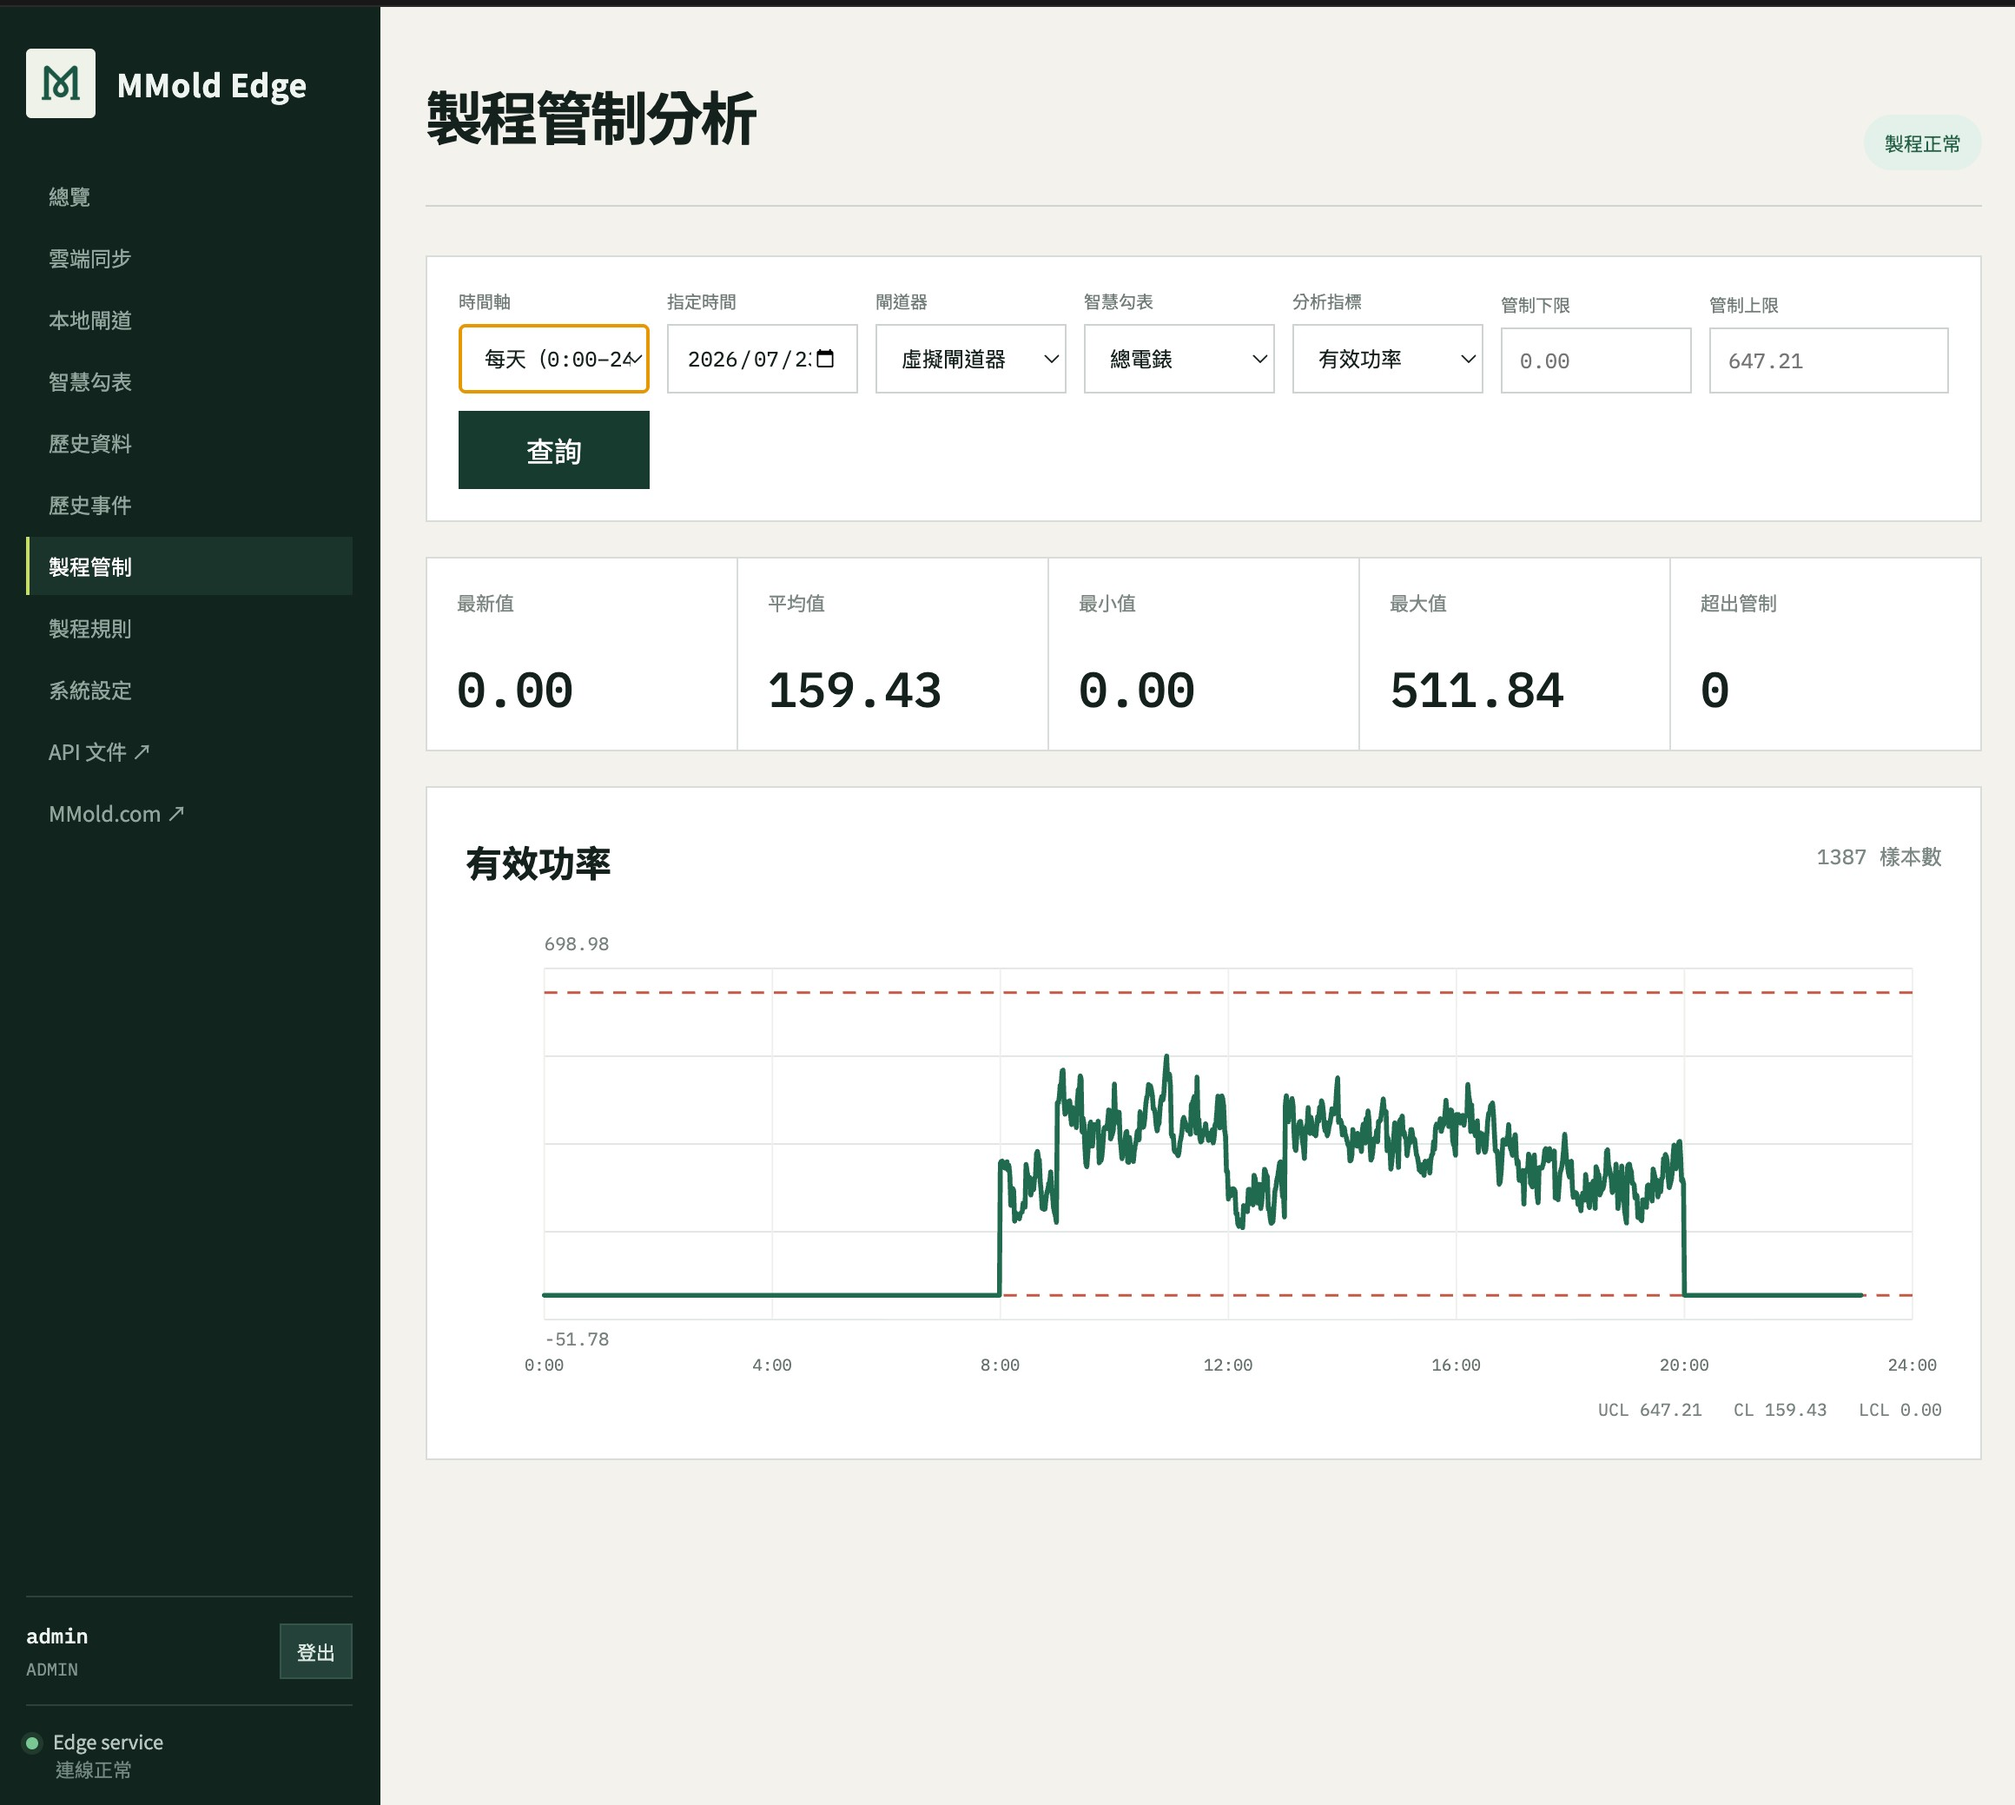
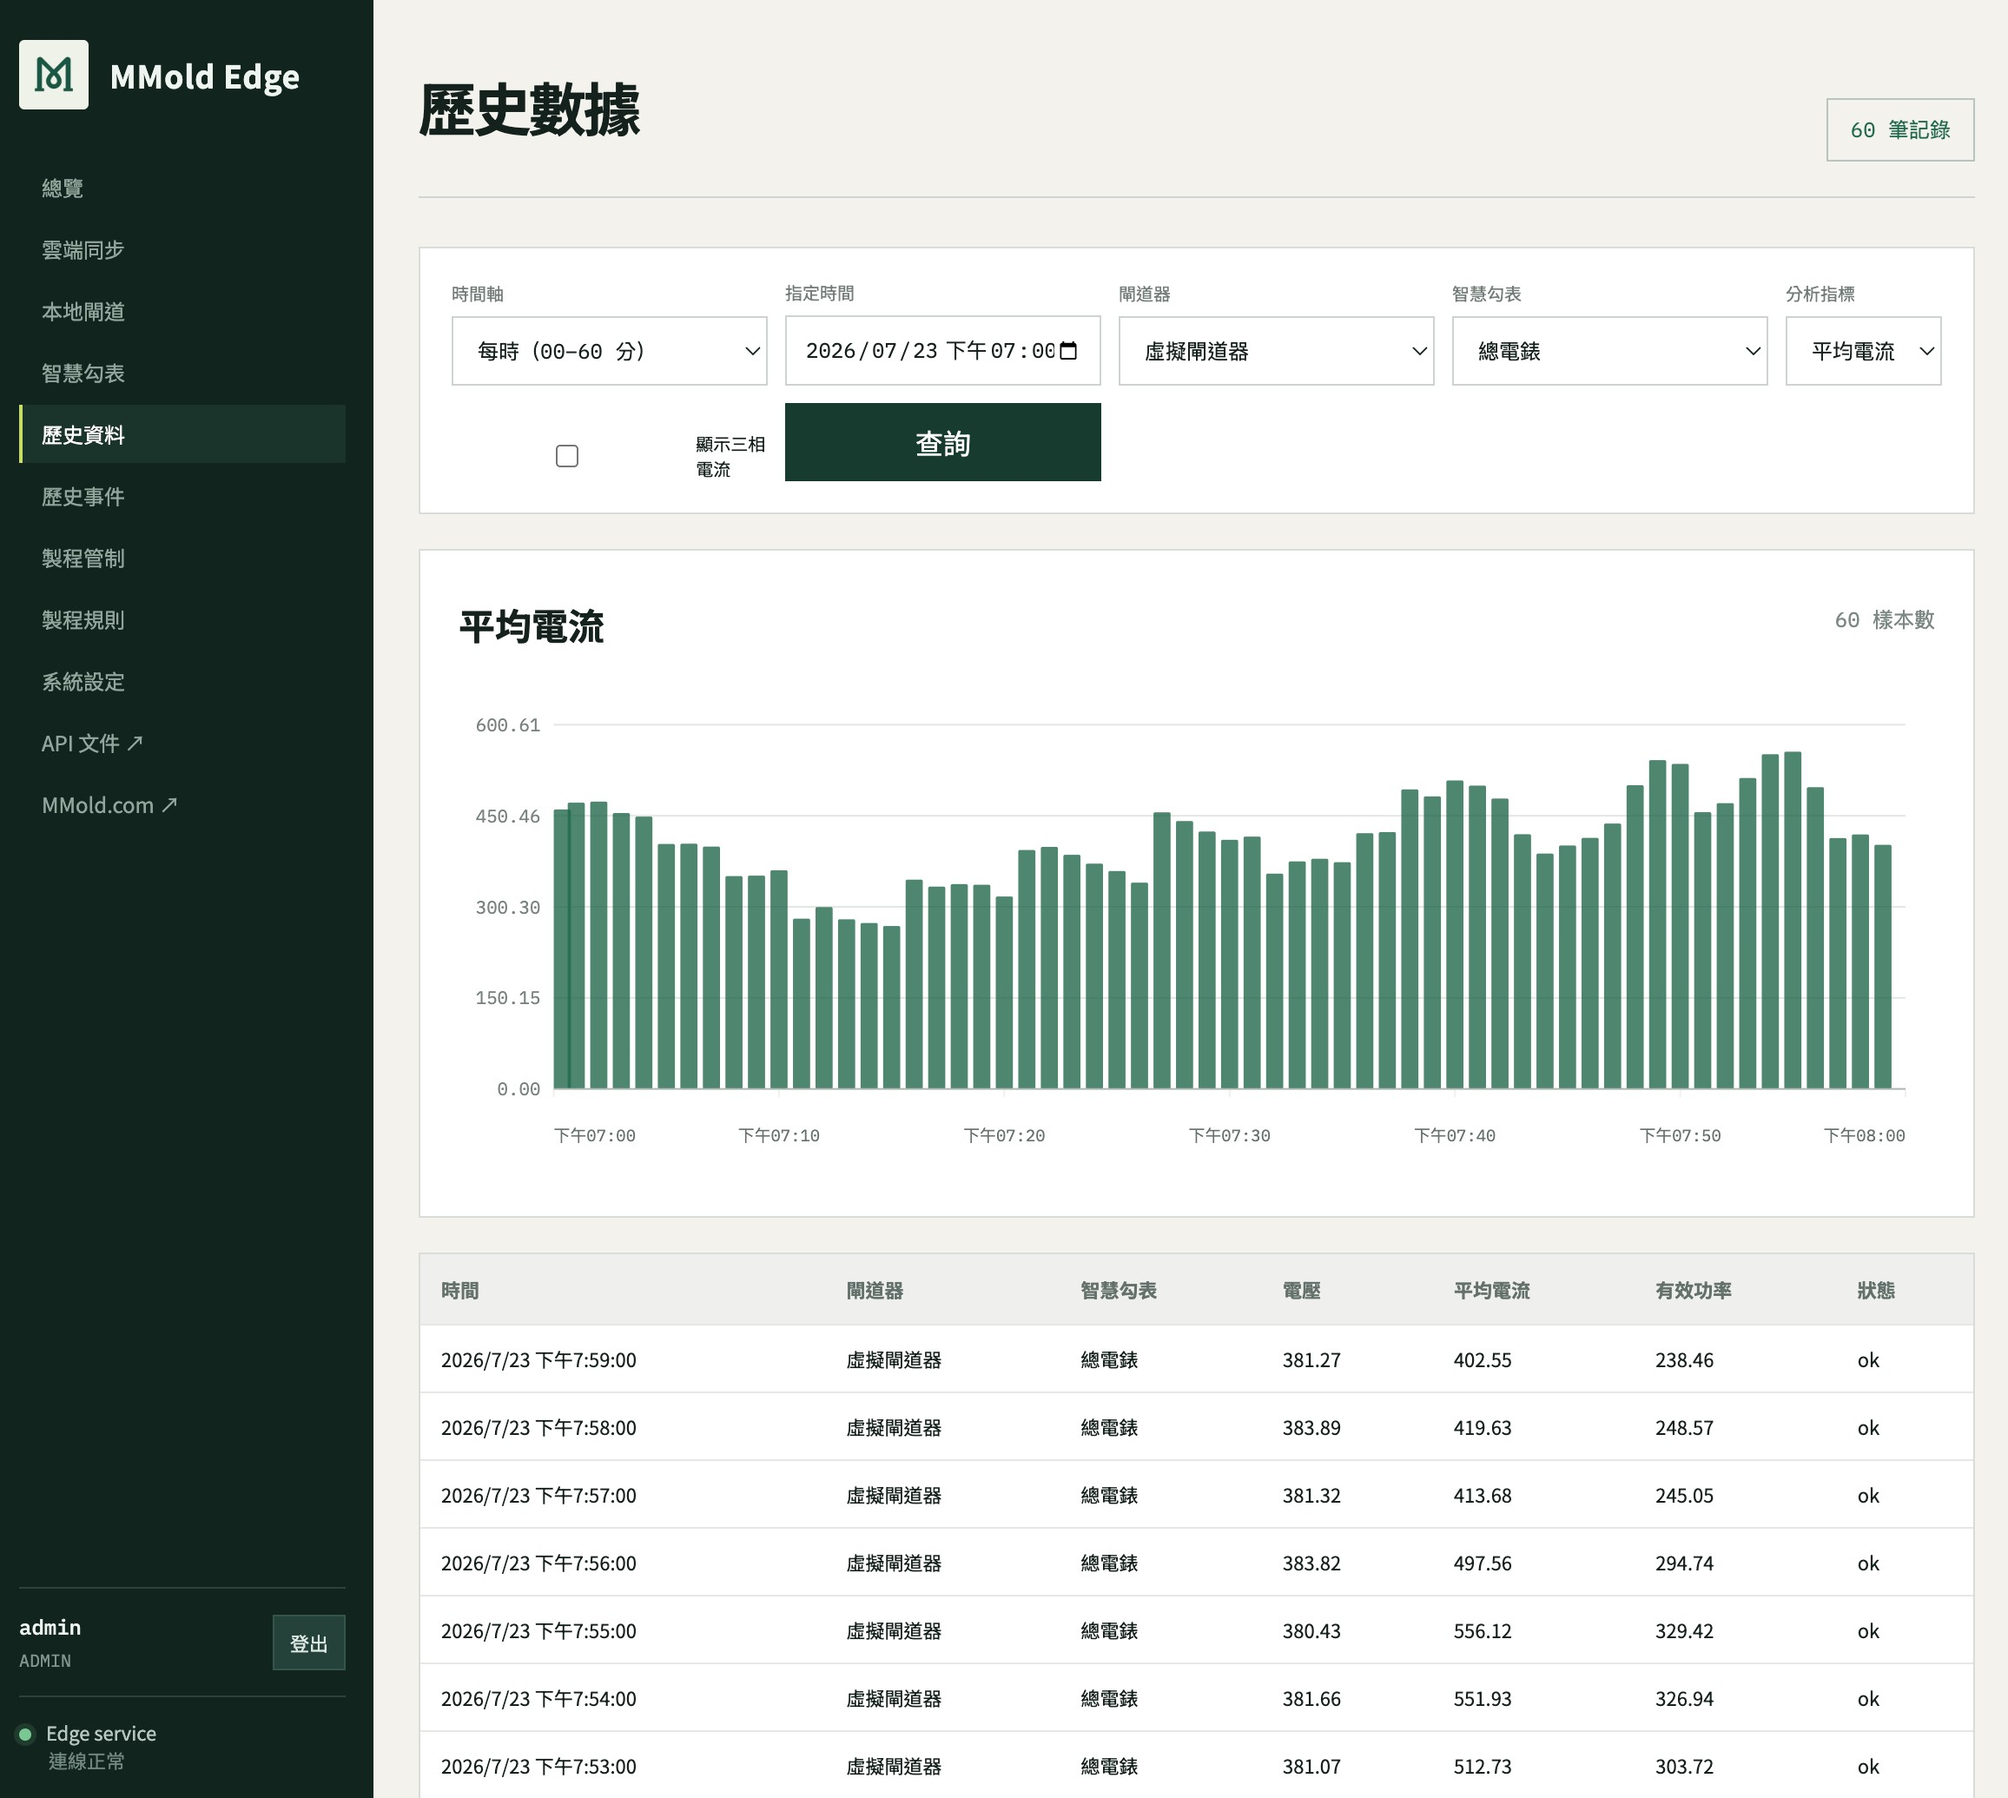
add history page

diff --git a/src/components/history-data/history-data-view.tsx b/src/components/history-data/history-data-view.tsx
@@ -1,0 +1,130 @@
+'use client'
+
+import { useMemo, useState } from 'react'
+import type { ReactNode } from 'react'
+import { Bar, BarChart, CartesianGrid, ResponsiveContainer, Tooltip, XAxis, YAxis } from 'recharts'
+import { useI18n } from '@/lib/i18n'
+import type { Hub } from '@/types/hub'
+import type { Meter } from '@/types/meter'
+
+type Props = { hubs: Hub[]; meters: Meter[] }
+type HistoryRow = { time: string; hub: string; meter: string; voltage: number; current: number; power: number; status: string }
+
+export function HistoryDataView({ hubs, meters }: Props) {
+    const { t } = useI18n()
+    const [range, setRange] = useState('hourly')
+    const [date, setDate] = useState('2026-07-23T19:00')
+    const [hubUid, setHubUid] = useState(hubs[0]?.uid ?? '')
+    const [meterId, setMeterId] = useState(meters[0]?.macId ?? '')
+    const [metric, setMetric] = useState('average-current')
+    const [threePhase, setThreePhase] = useState(false)
+    const [rows, setRows] = useState<HistoryRow[]>([])
+
+    const availableMeters = useMemo(
+        () => meters.filter((meter) => !hubUid || meter.hubUID === hubUid),
+        [hubUid, meters],
+    )
+
+    function handleHubChange(value: string) {
+        setHubUid(value)
+        const nextMeter = meters.find((meter) => meter.hubUID === value)
+        setMeterId(nextMeter?.macId ?? '')
+    }
+
+    function queryHistory() {
+        setRows([])
+    }
+
+    const chartData = rows.map((row) => ({
+        time: row.time,
+        value: metric === 'voltage' ? row.voltage : metric === 'active-power' ? row.power : row.current,
+    }))
+
+    return (
+        <div className='flex min-h-full flex-col gap-7 pb-8'>
+            <div className='flex items-center justify-between border-b border-[#D8DDD9] pb-5'>
+                <h1 className='text-3xl font-bold tracking-tight'>{t('historyData.title')}</h1>
+                <span className='border border-[#BFC8C2] px-4 py-2 text-sm text-[#357A59]'>{rows.length} {t('historyData.records')}</span>
+            </div>
+
+            <section className='border border-[#D8DDD9] bg-white p-4'>
+                <div className='grid gap-3 xl:grid-cols-5'>
+                    <Field label={t('historyData.timeRange')}>
+                        <select value={range} onChange={(event) => setRange(event.target.value)} className='control-input'>
+                            <option value='hourly'>{t('historyData.hourly')}</option>
+                            <option value='daily'>{t('historyData.daily')}</option>
+                            <option value='weekly'>{t('historyData.weekly')}</option>
+                        </select>
+                    </Field>
+                    <Field label={t('historyData.date')}>
+                        <input type='datetime-local' value={date} onChange={(event) => setDate(event.target.value)} className='control-input' />
+                    </Field>
+                    <Field label={t('historyData.gateway')}>
+                        <select value={hubUid} onChange={(event) => handleHubChange(event.target.value)} className='control-input'>
+                            <option value=''>{t('historyData.selectGateway')}</option>
+                            {hubs.map((hub) => <option key={hub.uid} value={hub.uid}>{hub.name}</option>)}
+                        </select>
+                    </Field>
+                    <Field label={t('historyData.meter')}>
+                        <select value={meterId} onChange={(event) => setMeterId(event.target.value)} className='control-input'>
+                            <option value=''>{t('historyData.selectMeter')}</option>
+                            {availableMeters.map((meter) => <option key={meter.macId} value={meter.macId}>{meter.name || meter.macId}</option>)}
+                        </select>
+                    </Field>
+                    <Field label={t('historyData.metric')}>
+                        <select value={metric} onChange={(event) => setMetric(event.target.value)} className='control-input'>
+                            <option value='average-current'>{t('historyData.averageCurrent')}</option>
+                            <option value='voltage'>{t('overview.voltage')}</option>
+                            <option value='active-power'>{t('processControl.activePower')}</option>
+                        </select>
+                    </Field>
+                </div>
+                <div className='mt-3 flex items-center gap-3'>
+                    <label className='flex items-center gap-2 text-sm text-[#5F6964]'>
+                        <input type='checkbox' checked={threePhase} onChange={(event) => setThreePhase(event.target.checked)} className='h-4 w-4 accent-[#153F31]' />
+                        {t('historyData.showThreePhase')}
+                    </label>
+                    <button type='button' onClick={queryHistory} className='ml-8 h-8 w-32 bg-[#153F31] px-2.5 text-sm font-medium text-white hover:bg-[#1B503D]'>
+                        {t('historyData.query')}
+                    </button>
+                </div>
+            </section>
+
+            <section className='border border-[#D8DDD9] bg-white p-7'>
+                <div className='mb-8 flex items-center justify-between'>
+                    <h2 className='text-2xl font-bold'>{t('historyData.averageCurrent')}</h2>
+                    <span className='text-sm text-[#7B8580]'>{rows.length} {t('historyData.samples')}</span>
+                </div>
+                <div className='h-[27rem] w-full'>
+                    <ResponsiveContainer width='100%' height='100%'>
+                        <BarChart data={chartData} margin={{ top: 20, right: 18, left: 18, bottom: 8 }}>
+                            <CartesianGrid stroke='#E5E9E6' vertical />
+                            <XAxis dataKey='time' tick={{ fill: '#7B8580', fontSize: 12 }} tickLine={false} axisLine={false} />
+                            <YAxis tick={{ fill: '#7B8580', fontSize: 12 }} tickLine={false} axisLine={false} />
+                            <Tooltip />
+                            <Bar dataKey='value' fill='#4E8B74' radius={[0, 0, 0, 0]} />
+                        </BarChart>
+                    </ResponsiveContainer>
+                </div>
+                {rows.length === 0 && <p className='mt-4 text-center text-sm text-[#8A938E]'>{t('historyData.dataUnavailable')}</p>}
+            </section>
+
+            <section className='overflow-hidden border border-[#D8DDD9] bg-white'>
+                <table className='w-full text-sm'>
+                    <thead className='bg-[#F1F2EF] text-left text-[#4F5A54]'>
+                        <tr>{['time', 'gateway', 'meter', 'voltage', 'averageCurrent', 'activePower', 'status'].map((key) => <th key={key} className='whitespace-nowrap px-4 py-3 font-medium'>{t(`historyData.${key}`)}</th>)}</tr>
+                    </thead>
+                    <tbody>
+                        {rows.length === 0 ? <tr><td colSpan={7} className='px-4 py-8 text-center text-muted-foreground'>{t('historyData.noData')}</td></tr> : rows.map((row) => (
+                            <tr key={row.time} className='border-t border-[#E1E5E2]'><td className='px-4 py-3'>{row.time}</td><td className='px-4 py-3'>{row.hub}</td><td className='px-4 py-3'>{row.meter}</td><td className='px-4 py-3'>{row.voltage}</td><td className='px-4 py-3'>{row.current}</td><td className='px-4 py-3'>{row.power}</td><td className='px-4 py-3'>{row.status}</td></tr>
+                        ))}
+                    </tbody>
+                </table>
+            </section>
+        </div>
+    )
+}
+
+function Field({ label, children }: { label: string; children: ReactNode }) {
+    return <label className='flex min-w-0 flex-col gap-1.5 text-sm text-[#5F6964]'><span>{label}</span>{children}</label>
+}

diff --git a/src/lib/i18n.ts b/src/lib/i18n.ts
@@ -79,6 +79,13 @@ const messages: Record<Locale, Messages> = {
         'processControl.latest': '最新值', 'processControl.average': '平均值', 'processControl.minimum': '最小值',
         'processControl.maximum': '最大值', 'processControl.exceeded': '超出管制', 'processControl.sampleCount': '樣本數',
         'processControl.dataUnavailable': '尚未提供製程歷史資料 API',
+        'historyData.title': '歷史數據', 'historyData.records': '筆記錄', 'historyData.timeRange': '時間軸',
+        'historyData.hourly': '每時（00–60 分）', 'historyData.daily': '每天', 'historyData.weekly': '每週',
+        'historyData.date': '指定時間', 'historyData.gateway': '閘道器', 'historyData.meter': '智慧勾表',
+        'historyData.metric': '分析指標', 'historyData.averageCurrent': '平均電流', 'historyData.selectGateway': '請選擇閘道器',
+        'historyData.selectMeter': '請選擇智慧勾表', 'historyData.showThreePhase': '顯示三相電流', 'historyData.query': '查詢',
+        'historyData.samples': '樣本數', 'historyData.dataUnavailable': '尚未提供歷史資料 API', 'historyData.noData': '查無歷史資料',
+        'historyData.time': '時間', 'historyData.voltage': '電壓', 'historyData.activePower': '有效功率', 'historyData.status': '狀態',
     },
     en: {
         'nav.overview': 'Overview', 'nav.cloudSync': 'Cloud Sync', 'nav.gateways': 'Local Gateways',
@@ -151,6 +158,13 @@ const messages: Record<Locale, Messages> = {
         'processControl.latest': 'Latest', 'processControl.average': 'Average', 'processControl.minimum': 'Minimum',
         'processControl.maximum': 'Maximum', 'processControl.exceeded': 'Exceeded control', 'processControl.sampleCount': 'Samples',
         'processControl.dataUnavailable': 'Process history API is not available yet',
+        'historyData.title': 'Historical data', 'historyData.records': 'records', 'historyData.timeRange': 'Time range',
+        'historyData.hourly': 'Hourly (00–60 min)', 'historyData.daily': 'Daily', 'historyData.weekly': 'Weekly',
+        'historyData.date': 'Date', 'historyData.gateway': 'Gateway', 'historyData.meter': 'Smart meter',
+        'historyData.metric': 'Metric', 'historyData.averageCurrent': 'Average current', 'historyData.selectGateway': 'Select gateway',
+        'historyData.selectMeter': 'Select smart meter', 'historyData.showThreePhase': 'Show three-phase current', 'historyData.query': 'Query',
+        'historyData.samples': 'samples', 'historyData.dataUnavailable': 'Historical data API is not available yet', 'historyData.noData': 'No historical data',
+        'historyData.time': 'Time', 'historyData.voltage': 'Voltage', 'historyData.activePower': 'Active power', 'historyData.status': 'Status',
     },
 }
 

diff --git a/src/app/history-data/page.tsx b/src/app/history-data/page.tsx
@@ -1,3 +1,11 @@
-export default function HistoryData() {
-    return <div className='flex flex-col flex-1 items-center justify-center bg-zinc-50 font-sans dark:bg-black'>HistoryData</div>
+import { HistoryDataView } from '@/components/history-data/history-data-view'
+import { serverApiFetch } from '@/lib/api/server'
+import type { Hub } from '@/types/hub'
+import type { Meter } from '@/types/meter'
+
+export default async function HistoryDataPage() {
+    const hubs = await serverApiFetch<Hub[]>('/api/hubs')
+    const meterResults = await Promise.all(hubs.map((hub) => serverApiFetch<Meter[]>(`/api/hubs/${encodeURIComponent(hub.uid)}/meters`)))
+
+    return <HistoryDataView hubs={hubs} meters={meterResults.flat()} />
 }

diff --git a/AGENTS.md b/AGENTS.md
@@ -159,6 +159,8 @@ src/
       overview-dashboard.tsx # operations overview UI; real-time reading fields are placeholders until backend APIs exist
     process-control/
       process-control-analysis.tsx # process control filters, summary cards and history chart
+    history-data/
+      history-data-view.tsx # historical data filters, bar chart and result table
   lib/
     api/
       auth.ts             # TODO: describe purpose
@@ -218,3 +220,8 @@ src/
 - The chart and summary values remain empty until the backend exposes a process-history query
   endpoint with the selected time range, meter, metric, and control limits, plus aggregated
   latest/average/minimum/maximum/exceeded values.
+
+## History data API gaps
+- `/history-data` currently uses existing gateway and meter metadata for its selectors.
+- The chart and table remain empty until the backend exposes a historical samples query
+  endpoint returning timestamp, gateway, meter, voltage, current, active power, and status.
